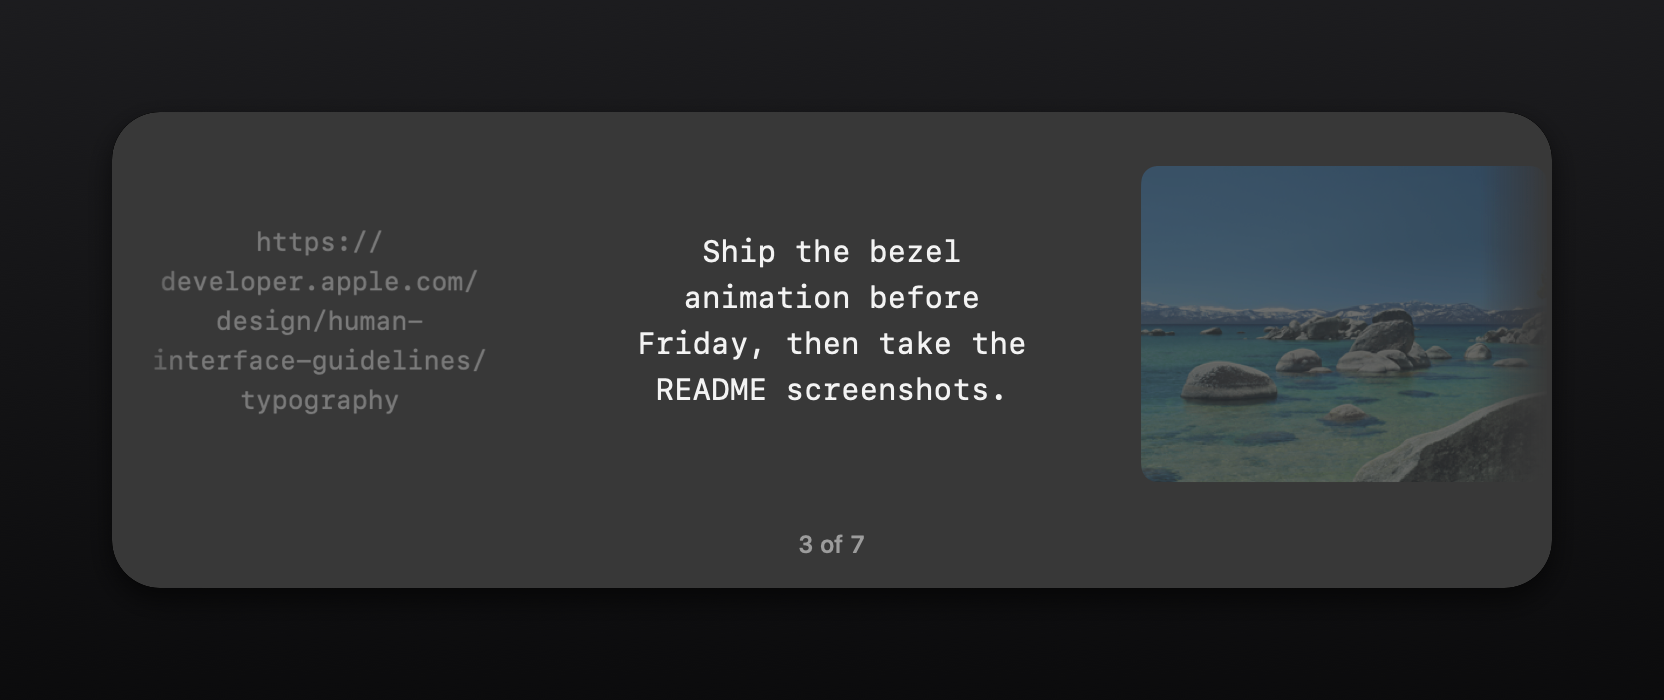
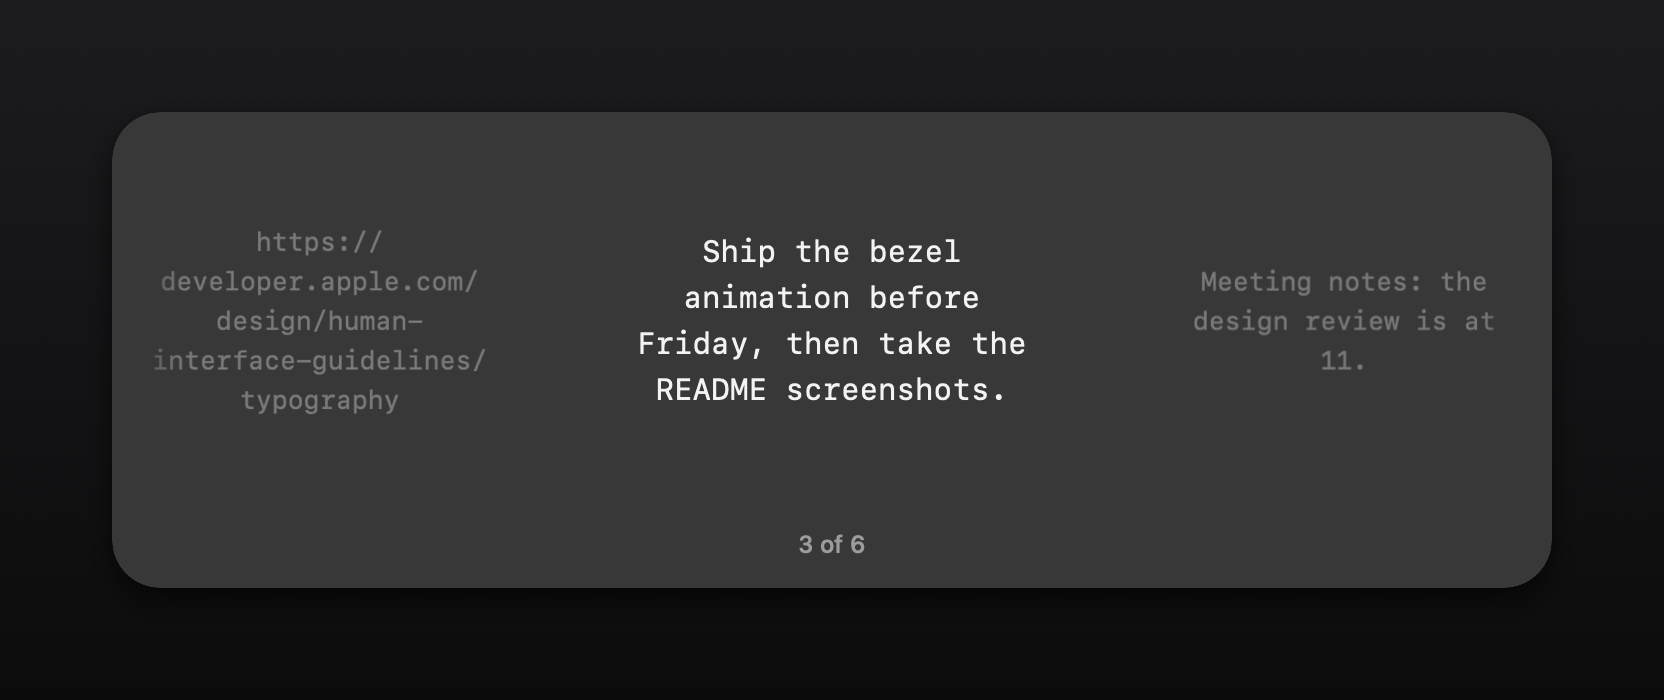
Rename CopyOver to Roger
The product name changes everywhere: the SwiftPM product, target, sources
and tests, the built app (dist/Roger.app, executable Roger, bundle
identifier com.george.roger), the menu, the quit item, the alerts, the
README and the screenshots. Behaviour is unchanged.

Existing installs keep their data. On first launch Roger copies
~/Library/Application Support/CopyOver to .../Roger when the new folder is
absent and leaves the old folder in place, and it copies the preferences
from the old bundle domain so the hotkey carries over.

The README now leads with downloading the app from the Releases page and
keeps building from source at the bottom.

Signing still uses the existing CopyOver Local Signing certificate, whose
name stays as it is so the Accessibility grant survives the rename.

Changed region(s): [[0.6875, 0.24, 0.9062, 0.69]]

diff --git a/Sources/Roger/AppDelegate.swift b/Sources/Roger/AppDelegate.swift
@@ -25,11 +25,11 @@ final class AppDelegate: NSObject, NSApplicationDelegate, NSMenuDelegate {
 
     func applicationDidFinishLaunching(_ notification: Notification) {
         NSApp.setActivationPolicy(.accessory)
-        NSLog("CopyOver history loaded: %d items", store.items.count)
+        NSLog("Roger history loaded: %d items", store.items.count)
         let status = NSStatusBar.system.statusItem(withLength: NSStatusItem.squareLength)
-        status.button?.image = NSImage(systemSymbolName: "square.on.square", accessibilityDescription: "CopyOver")
-        status.button?.toolTip = "CopyOver"
-        status.button?.setAccessibilityLabel("CopyOver")
+        status.button?.image = NSImage(systemSymbolName: "square.on.square", accessibilityDescription: "Roger")
+        status.button?.toolTip = "Roger"
+        status.button?.setAccessibilityLabel("Roger")
         let menu = NSMenu()
         menu.delegate = self
         status.menu = menu
@@ -42,10 +42,10 @@ final class AppDelegate: NSObject, NSApplicationDelegate, NSMenuDelegate {
         hotKey.onPress = { [weak self] in self?.showBezel() }
         preferences.onChange = { [weak self] in self?.hotKeyError = nil }
         let result = hotKey.register()
-        NSLog("CopyOver hotkey registration status: %d", result)
+        NSLog("Roger hotkey registration status: %d", result)
         PasteLog.write("launch \(Bundle.main.bundlePath) trusted=\(accessibilityTrusted(prompt: false)) canPostEvents=\(CGPreflightPostEventAccess())")
         if result != noErr {
-            hotKeyError = "Shortcut unavailable. Quit another app using \(hotKey.shortcut.title) and reopen CopyOver."
+            hotKeyError = "Shortcut unavailable. Quit another app using \(hotKey.shortcut.title) and reopen Roger."
         }
         watcher.start()
     }
@@ -123,7 +123,7 @@ final class AppDelegate: NSObject, NSApplicationDelegate, NSMenuDelegate {
         add("Clear history", action: #selector(clearHistory), to: menu).isEnabled = !store.items.isEmpty
         add("Allow Pasting in Accessibility…", action: #selector(openAccessibilitySettings), to: menu)
         add("Preferences…", action: #selector(openPreferences), to: menu)
-        add("Quit CopyOver", action: #selector(quit), to: menu)
+        add("Quit Roger", action: #selector(quit), to: menu)
     }
 
     private func rowTitle(for item: HistoryItem, limit: Int = 40) -> String {
@@ -169,7 +169,7 @@ final class AppDelegate: NSObject, NSApplicationDelegate, NSMenuDelegate {
         PasteLog.write("return item=\(item.label.prefix(40).debugDescription) trusted=\(trusted) canPostEvents=\(CGPreflightPostEventAccess()) frontmost=\(Self.describe(front)) target=\(Self.describe(pasteTarget))")
         guard trusted else {
             _ = copy(item)
-            PasteLog.write("copied only: Accessibility is not granted to this binary (a listed CopyOver row may belong to an older build)")
+            PasteLog.write("copied only: Accessibility is not granted to this binary (a listed Roger row may belong to an older build)")
             return
         }
         guard let target = pasteTarget, !target.isTerminated else {
@@ -263,11 +263,11 @@ final class AppDelegate: NSObject, NSApplicationDelegate, NSMenuDelegate {
             NSWorkspace.shared.open(url)
         }
         guard !accessibilityTrusted(prompt: false) else { return }
-        // A CopyOver row that is switched on but belongs to an earlier build
+        // A Roger row that is switched on but belongs to an earlier build
         // does not trust this one; only removing and re-adding it does.
         let alert = NSAlert()
-        alert.messageText = "This copy of CopyOver is not trusted yet"
-        alert.informativeText = "If CopyOver is already listed and switched on, that entry belongs to an earlier build. Remove it with the minus button, then add this app again:\n\(Bundle.main.bundlePath)"
+        alert.messageText = "This copy of Roger is not trusted yet"
+        alert.informativeText = "If Roger is already listed and switched on, that entry belongs to an earlier build. Remove it with the minus button, then add this app again:\n\(Bundle.main.bundlePath)"
         alert.addButton(withTitle: "OK")
         alert.runModal()
     }

diff --git a/Tests/RogerTests/HistoryTests.swift b/Tests/RogerTests/HistoryTests.swift
@@ -1,13 +1,13 @@
 import AppKit
 import Carbon.HIToolbox
 import Testing
-@testable import CopyOver
+@testable import Roger
 
 @Suite(.serialized)
 @MainActor
 struct HistoryTests {
     private func directory() -> URL {
-        FileManager.default.temporaryDirectory.appendingPathComponent("CopyOverTests-\(UUID().uuidString)")
+        FileManager.default.temporaryDirectory.appendingPathComponent("RogerTests-\(UUID().uuidString)")
     }
 
     @Test func duplicateMovesToTopAndSurvivesRelaunch() throws {
@@ -116,7 +116,7 @@ struct HistoryTests {
         let path = directory()
         defer { try? FileManager.default.removeItem(at: path) }
         let store = HistoryStore(directory: path)
-        let board = NSPasteboard(name: NSPasteboard.Name("CopyOverTests-\(UUID().uuidString)"))
+        let board = NSPasteboard(name: NSPasteboard.Name("RogerTests-\(UUID().uuidString)"))
         defer { board.releaseGlobally() }
         let watcher = ClipboardWatcher(store: store, pasteboard: board)
         board.clearContents()
@@ -130,7 +130,7 @@ struct HistoryTests {
         let image = try #require(store.items.first)
         #expect(store.imageURL(for: image) != nil)
         board.clearContents()
-        let files = [URL(fileURLWithPath: "/tmp/CopyOver test.txt")]
+        let files = [URL(fileURLWithPath: "/tmp/Roger test.txt")]
         board.writeObjects(files.map { $0 as NSURL })
         watcher.poll()
         let file = try #require(store.items.first)
@@ -150,7 +150,7 @@ struct HistoryTests {
         let path = directory()
         defer { try? FileManager.default.removeItem(at: path) }
         let store = HistoryStore(directory: path)
-        let board = NSPasteboard(name: NSPasteboard.Name("CopyOverTests-\(UUID().uuidString)"))
+        let board = NSPasteboard(name: NSPasteboard.Name("RogerTests-\(UUID().uuidString)"))
         defer { board.releaseGlobally() }
         let watcher = ClipboardWatcher(store: store, pasteboard: board)
         let concealed = NSPasteboard.PasteboardType("org.nspasteboard.ConcealedType")
@@ -257,7 +257,7 @@ struct HistoryTests {
     }
 
     @Test func shortcutRoundTripsThroughUserDefaults() throws {
-        let name = "CopyOverTests-\(UUID().uuidString)"
+        let name = "RogerTests-\(UUID().uuidString)"
         let defaults = try #require(UserDefaults(suiteName: name))
         defer { defaults.removePersistentDomain(forName: name) }
         #expect(Shortcut.stored(in: defaults) == .standard)
@@ -272,10 +272,10 @@ struct HistoryTests {
     }
 
     @Test func legacyStoreIsCopiedAndKept() throws {
-        let support = FileManager.default.temporaryDirectory.appendingPathComponent("CopyOverTests-\(UUID().uuidString)")
+        let support = FileManager.default.temporaryDirectory.appendingPathComponent("RogerTests-\(UUID().uuidString)")
         defer { try? FileManager.default.removeItem(at: support) }
         let legacy = support.appendingPathComponent("CopyCopy", isDirectory: true)
-        let destination = support.appendingPathComponent("CopyOver", isDirectory: true)
+        let destination = support.appendingPathComponent("Roger", isDirectory: true)
         let old = HistoryStore(directory: legacy)
         old.recordText("kept")
         let legacyIndex = legacy.appendingPathComponent("history.json")

diff --git a/Sources/Roger/History.swift b/Sources/Roger/History.swift
@@ -52,15 +52,17 @@ final class HistoryStore: ObservableObject {
 
     init(directory: URL? = nil, itemLimit: Int = 200, imageBudget: Int = 500 * 1_024 * 1_024) {
         let support = FileManager.default.urls(for: .applicationSupportDirectory, in: .userDomainMask)[0]
-        self.directory = directory ?? support.appendingPathComponent("CopyOver", isDirectory: true)
+        self.directory = directory ?? support.appendingPathComponent("Roger", isDirectory: true)
         self.itemLimit = itemLimit
         self.imageBudget = imageBudget
         if directory == nil {
-            do {
-                try Self.copyLegacyStore(from: support.appendingPathComponent("CopyCopy", isDirectory: true),
-                                         to: self.directory)
-            } catch {
-                NSLog("CopyOver could not migrate the CopyCopy history: %@", error.localizedDescription)
+            for legacy in ["CopyOver", "CopyCopy"] {
+                do {
+                    try Self.copyLegacyStore(from: support.appendingPathComponent(legacy, isDirectory: true),
+                                             to: self.directory)
+                } catch {
+                    NSLog("Roger could not migrate the %@ history: %@", legacy, error.localizedDescription)
+                }
             }
         }
         do {
@@ -176,6 +178,6 @@ final class HistoryStore: ObservableObject {
 
     private enum StoreError: LocalizedError {
         case unsupportedIndex
-        var errorDescription: String? { "This history was written by a newer version of CopyOver." }
+        var errorDescription: String? { "This history was written by a newer version of Roger." }
     }
 }

diff --git a/Sources/Roger/DemoShot.swift b/Sources/Roger/DemoShot.swift
@@ -20,7 +20,7 @@ enum DemoShot: String {
     }
 
     var directory: URL {
-        FileManager.default.temporaryDirectory.appendingPathComponent("copyover-demo-\(rawValue)", isDirectory: true)
+        FileManager.default.temporaryDirectory.appendingPathComponent("roger-demo-\(rawValue)", isDirectory: true)
     }
 
     var selection: Int {
@@ -33,11 +33,11 @@ enum DemoShot: String {
 
     @MainActor
     func seed(into store: HistoryStore) {
-        let image = ProcessInfo.processInfo.environment["COPYOVER_DEMO_IMAGE"]
+        let image = ProcessInfo.processInfo.environment["ROGER_DEMO_IMAGE"]
             .flatMap { try? Data(contentsOf: URL(fileURLWithPath: $0)) }
-        store.recordText("Coffee with Sam at 11, then the copy-over review.")
+        store.recordText("Coffee with Sam at 11, then the design review.")
         store.recordText("git rebase --autosquash origin/main")
-        store.recordText("Meeting notes: the copy-over review is at 11.")
+        store.recordText("Meeting notes: the design review is at 11.")
         if let image { store.recordPNG(image) }
         store.recordText("Ship the bezel animation before Friday, then take the README screenshots.")
         store.recordText("https://developer.apple.com/design/human-interface-guidelines/typography")

diff --git a/Sources/Roger/PasteLog.swift b/Sources/Roger/PasteLog.swift
@@ -2,11 +2,11 @@ import Foundation
 
 /// Plain-text trail of every paste attempt, because NSLog from this app does
 /// not reach the unified log. Lives beside the history:
-/// ~/Library/Application Support/CopyOver/paste.log
+/// ~/Library/Application Support/Roger/paste.log
 @MainActor
 enum PasteLog {
     static let url = FileManager.default.urls(for: .applicationSupportDirectory, in: .userDomainMask)[0]
-        .appendingPathComponent("CopyOver", isDirectory: true).appendingPathComponent("paste.log")
+        .appendingPathComponent("Roger", isDirectory: true).appendingPathComponent("paste.log")
     private static let stamp: DateFormatter = {
         let formatter = DateFormatter()
         formatter.dateFormat = "yyyy-MM-dd HH:mm:ss.SSS"
@@ -14,7 +14,7 @@ enum PasteLog {
     }()
 
     static func write(_ message: String) {
-        NSLog("CopyOver %@", message)
+        NSLog("Roger %@", message)
         let line = "\(stamp.string(from: Date())) \(message)\n"
         guard let data = line.data(using: .utf8) else { return }
         if let size = try? FileManager.default.attributesOfItem(atPath: url.path)[.size] as? Int, size > 512 * 1_024 {

diff --git a/Sources/Roger/Preferences.swift b/Sources/Roger/Preferences.swift
@@ -1,6 +1,20 @@
 import AppKit
 import Carbon.HIToolbox
 
+/// The bundle identifier changed with the rename, and preferences live in the
+/// bundle's domain, so the old domain is copied across once on first launch.
+enum LegacyPreferences {
+    static let domain = "com.george.copyover"
+
+    static func carryOver(into defaults: UserDefaults = .standard) {
+        guard let legacy = UserDefaults(suiteName: domain),
+              let values = legacy.persistentDomain(forName: domain) else { return }
+        for (key, value) in values where defaults.object(forKey: key) == nil {
+            defaults.set(value, forKey: key)
+        }
+    }
+}
+
 @MainActor
 final class PreferencesController: NSObject, NSWindowDelegate {
     private let hotKey: HotKey
@@ -65,7 +79,7 @@ final class PreferencesController: NSObject, NSWindowDelegate {
         field.stopRecording()
         caption.stringValue = shortcut.words
         message.stringValue = ""
-        NSLog("CopyOver hotkey changed: %@", shortcut.title)
+        NSLog("Roger hotkey changed: %@", shortcut.title)
         onChange?()
     }
 }

diff --git a/Package.swift b/Package.swift
@@ -2,11 +2,11 @@
 import PackageDescription
 
 let package = Package(
-    name: "CopyOver",
+    name: "Roger",
     platforms: [.macOS(.v14)],
-    products: [.executable(name: "CopyOver", targets: ["CopyOver"])],
+    products: [.executable(name: "Roger", targets: ["Roger"])],
     targets: [
-        .executableTarget(name: "CopyOver"),
-        .testTarget(name: "CopyOverTests", dependencies: ["CopyOver"])
+        .executableTarget(name: "Roger"),
+        .testTarget(name: "RogerTests", dependencies: ["Roger"])
     ]
 )

diff --git a/Sources/Roger/Bezel.swift b/Sources/Roger/Bezel.swift
@@ -150,7 +150,7 @@ final class BezelController: NSObject, NSWindowDelegate {
         panel = BezelPanel(contentRect: NSRect(x: 0, y: 0, width: BezelMetrics.width + margin * 2, height: BezelMetrics.height + margin * 2),
                           styleMask: [.borderless, .nonactivatingPanel], backing: .buffered, defer: false)
         super.init()
-        panel.title = "CopyOver"
+        panel.title = "Roger"
         panel.isOpaque = false
         panel.backgroundColor = .clear
         panel.hasShadow = false

diff --git a/Sources/Roger/HotKey.swift b/Sources/Roger/HotKey.swift
@@ -127,7 +127,7 @@ final class HotKey {
         references = fresh
         shortcut = new
         new.store()
-        NSLog("CopyOver hotkey registered: %@", new.title)
+        NSLog("Roger hotkey registered: %@", new.title)
         return noErr
     }
 

diff --git a/Sources/Roger/main.swift b/Sources/Roger/main.swift
@@ -1,5 +1,6 @@
 import AppKit
 
+LegacyPreferences.carryOver()
 let application = NSApplication.shared
 let delegate = AppDelegate(demo: DemoShot.parse(CommandLine.arguments))
 application.delegate = delegate
